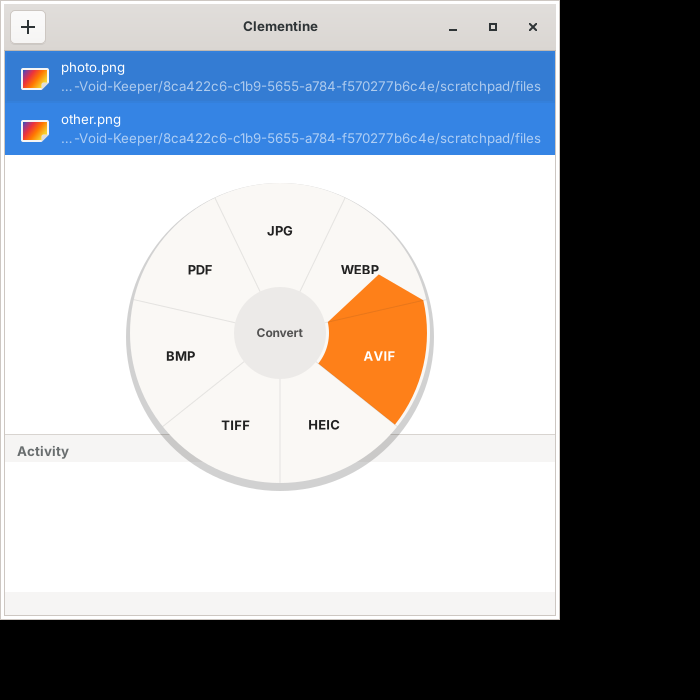
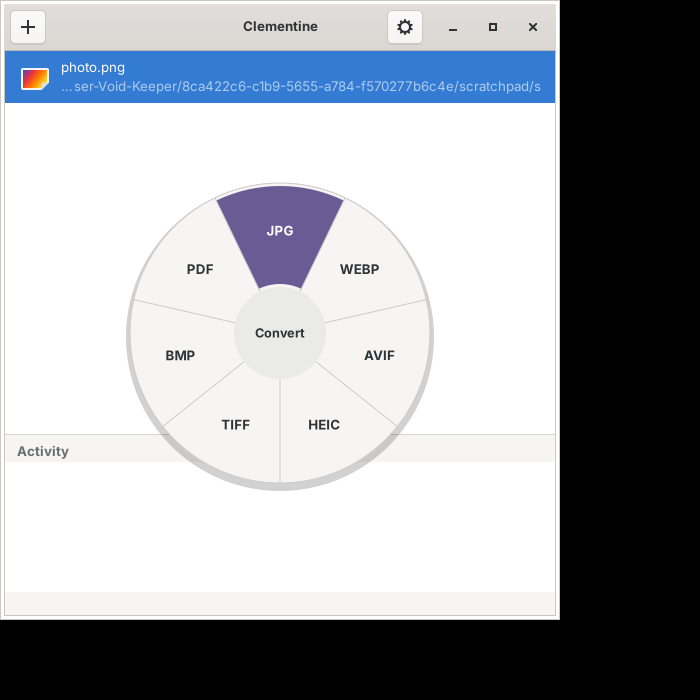
README: keyboard, pointer and screen reader use, failure messages; new wheel screenshot
Claude-Session: https://claude.ai/code/session_014FhmoTRxmVn9WjRgJWwgtf

diff --git a/README.md b/README.md
@@ -23,9 +23,25 @@ A drop without a wheel puts the files on the **shelf**.
 So while dragging, three chips appear at the bottom of the window; drag over one to open its wheel.
 Modifier keys work when dragging from the shelf, and on X11.
 
-**Keyboard:** select files on the shelf and press **Enter**. Arrows choose a slice, **Tab** switches
-wheels, **Enter** runs, **Esc** cancels. **Delete** removes files from the shelf. Shelf rows can be
-dragged out to a file manager or back onto the window.
+**Keyboard:** select files on the shelf and press **Enter** (or the **Menu** key, or **Shift+F10**).
+Arrows choose a slice, **Home**/**End** jump to the first/last one, **1**–**9** run slice N directly,
+**Tab** switches wheels, **Enter** runs, **Esc** cancels; focus then returns to the shelf row.
+**Delete** removes files from the shelf. Shelf rows can be dragged out to a file manager or back onto
+the window.
+
+**Mouse or touch, no modifier keys:** right-click (or long-press) a shelf row to open the wheel there.
+Click a slice to run it; click anywhere else to cancel.
+
+**Screen readers:** the open wheel is exposed to Orca and other AT-SPI tools as a menu named after it
+("Convert wheel, 7 options"); its description and a spoken announcement follow the selection
+("PNG, 2 of 7", or "WEBP, 3 of 7, unavailable: needs ffmpeg").
+
+**Looks:** the wheel uses the system font and text size (it grows with large text), the theme's
+colours (light, dark and high contrast), and a muted purple selection; every label is kept at a
+4.5:1 contrast ratio or better. Long labels wrap, shrink, then ellipsize to stay inside their slice.
+
+When a conversion fails, the status line says why in plain words (missing HEIC/AVIF support,
+unsupported codec, password-protected PDF, damaged file); hover **Failed** for the program's own message.
 
 **Settings** (the gear in the header bar) change which modifier opens which wheel (Shift, Ctrl, Alt or
 Super, each on one wheel only), whether results go next to the original or into one folder, and whether
@@ -209,12 +225,13 @@ cargo test -- --ignored --nocapture      # every conversion on real sample files
 | `src/params.rs` | Settings for the tools that ask (trim range, crop, speed…) and their checks |
 | `src/params_ui.rs` | The small window that asks for those settings |
 | `src/backend.rs` | Turns an op into commands, names outputs, runs them off the UI thread |
-| `src/wheel.rs` | The radial menu: state, hit testing, drawing |
+| `src/wheel.rs` | The radial menu: state, hit testing, drawing (Pango, theme palette), accessibility |
+| `src/messages.rs` | Plain-language headlines for converter failures |
 | `src/actions.rs` | The actions wheel: clipboard, copy/move, file manager, terminal |
 | `src/config.rs` | Settings: the JSON file, defaults, modifier assignment |
 | `src/settings_ui.rs` | The Settings window |
 | `src/cli.rs` | The command line: `--convert`, `--tool`, `--list`, `--wheel` |
-| `src/main.rs` | The window, drag and drop, keyboard |
+| `src/main.rs` | The window, drag and drop, keyboard, right-click / long-press |
 | `data/nautilus/`, `data/kio/`, `data/nemo/`, `data/thunar/`, `data/nautilus-scripts/` | File manager menus |
 
 ## Not yet
